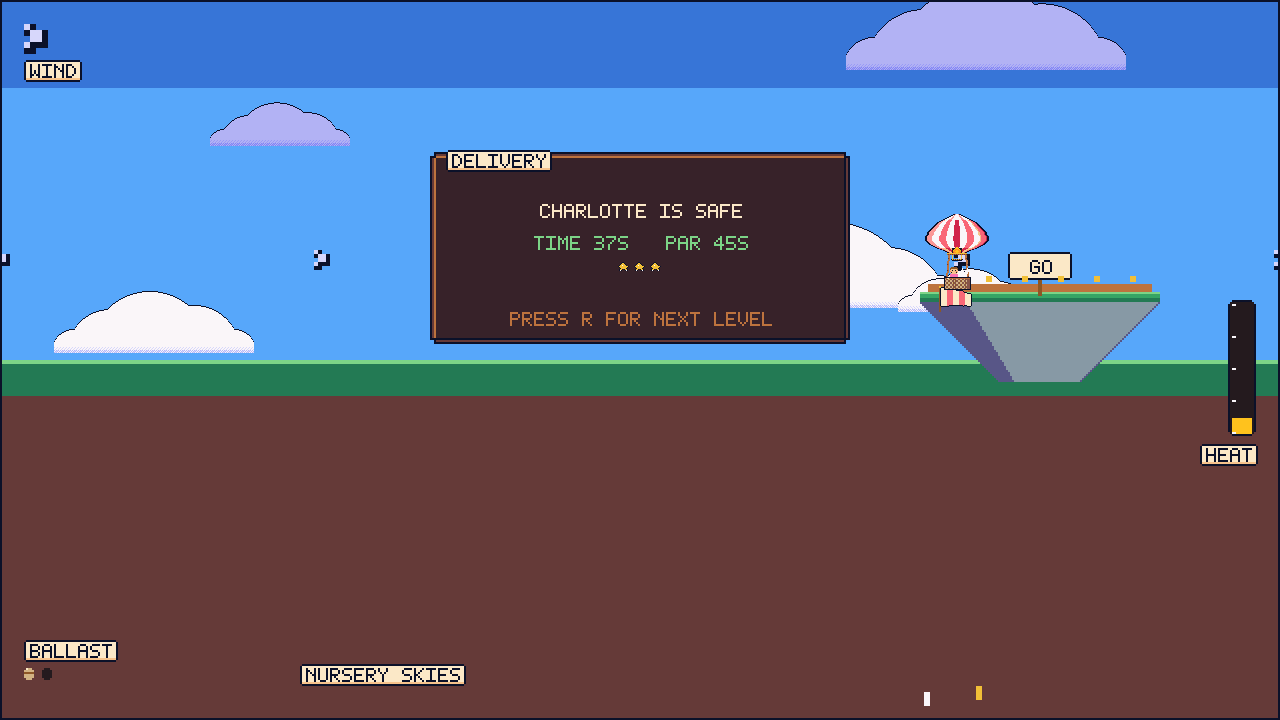
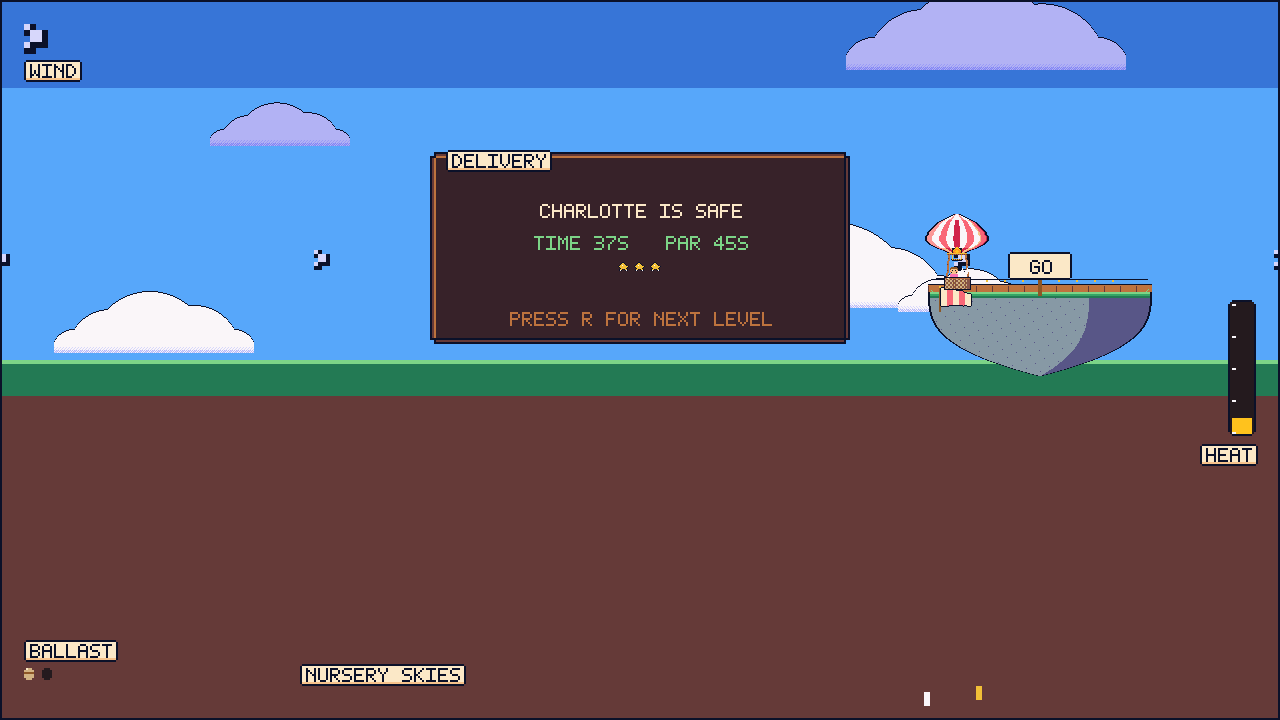
feat(art): islands, falling sandbags, and a windsock that snaps
Art plan C-batch-2 + D-batch-2, and the last piece of C the player was missing: nothing
was ever seen being dropped.

Sim: each real bag release now records (tick, x, altitude) in a ring of three slots in
SimState — physics truth, hashed, cloned, and readable through the bridge as `drops`.
The renderer derives the fall from the clock, so a deterministic replay draws the bag in
the same place on every head. New xunit proves the record contract: one per release, at
the release position, moves the hash against a run that kept flying, and nothing is
remembered when nothing was held.

Sheet: two islands (launch/delivery) with a plank deck authored to the sim's exact landing
tolerance (DeckHalfWidth ±56 px), grass cap, rock taper with sparse cracks, delivery
variant carrying its gold bunting on the sprite; windsocks 2 and 3 gained a snap frame,
picked off the clock at band strength >= 2 — which the frozen results clock stops like
everything else. WorldScreen's Kit.Island / deck fills / bunting loops are gone; one
sprite per island now.

Initiative: 8 (art, expanded plan) steps C + D, batch 2
Verified: node art/.art/audit.js ok (18 slices, all pixels on-palette); dotnet build
Release 0 warnings all heads; dotnet test 47/47 (new drop-record test); npx playwright
test 36/36 both viewports; 02-world + 03-delivery reviewed at 1280x720: bunting, plank
deck, Charlotte parked on the deck — landing contact reads, phone view unclipped

Changed region(s): [[0.7188, 0.3667, 0.9062, 0.55]]

diff --git a/art/.art/generate.js b/art/.art/generate.js
@@ -263,7 +263,7 @@ function sandbag() {
   return ring.concat(body);
 }
 
-function windsock(strength) {
+function windsock(strength, alt = false) {
   // build the sock as a region, then outline its silhouette and paint stripes — an outline drawn
   // after the stripes would eat the pattern, so the ink ring goes down first
   const cells = new Map();
@@ -272,7 +272,8 @@ function windsock(strength) {
   for (let i = 0; i < len; i++) {
     const along = i / len;
     const taper = Math.floor(along * (5 - strength));
-    const sag = Math.floor(along * along * droop);
+    // the alt frame shivers the outer third — cloth snapping in a real wind, not a new shape
+    const sag = Math.floor(along * along * droop) + (alt && along > 0.6 ? 1 : 0);
     for (let row = taper; row < 18 - taper; row++) cells.set(`${3 + i},${2 + row + sag}`, i);
   }
   const px = [];
@@ -319,6 +320,59 @@ function heart(filled) {
   ], 0, 0, { h: filled ? "heart" : "heartOff" });
 }
 
+// ================================================================ islands
+// design 120x50 -> internal 240x100, origin 4 px above the deck line so the sprite carries the
+// whole stack: bunting (delivery only), plank deck, grass cap, rock underbelly to a point.
+// Launch and delivery differ in deck wood and the bunting — same silhouette builder.
+function island(delivery) {
+  const W = 240, px = [];
+  const deckTop = 8, deckH = 8;                       // internal: 4 design px of plank at y 8..15
+  const capTop = 16, pointY = 100;                    // grass cap starts, rock tapers to here
+  const deckWood = delivery ? "w0" : "w1";
+  // bunting: gold pips on a line across the delivery deck (the prize reads at a glance)
+  if (delivery) {
+    for (let x = 30; x < W - 30; x += 18) px.push([x, 4, PAL.gold], [x + 1, 4, PAL.gold], [x, 5, PAL.gold], [x + 1, 5, PAL.gold]);
+    for (let x = 12; x < W - 12; x++) px.push([x, 3, PAL.K]); // the string, post to post
+  }
+  // deck: lit top line, plank seams every 16 px, shaded bottom edge. Width matches the sim's
+  // landing tolerance exactly: DeckHalfWidth 56 design px = 112 internal, centred.
+  for (let x = W / 2 - 112; x < W / 2 + 112; x++) {
+    px.push([x, deckTop, PAL.K], [x, deckTop + deckH + 1, PAL.K]);
+    for (let y = deckTop + 1; y <= deckTop + deckH; y++) px.push([x, y, PAL[deckWood]]);
+    if ((x - (W / 2 - 112)) % 16 === 0) for (let y = deckTop + 1; y <= deckTop + deckH; y++) px.push([x, y, PAL.w2]);
+    px.push([x, deckTop + 1, (x & 1) ? PAL.w0 : PAL[deckWood]]);
+  }
+  // grass cap + rock body: per-row half-widths, smooth taper to a point
+  const halfAt = (y) => {
+    const t = (y - capTop) / (pointY - capTop);       // 0 at cap, 1 at point
+    const w = 224 * (1 - t * t * t);                  // cap slightly wider than the deck, long taper
+    return Math.max(0, w / 2);
+  };
+  for (let y = capTop; y < pointY; y++) {
+    const half = halfAt(y);
+    const left = Math.round(W / 2 - half), right = Math.round(W / 2 + half);
+    const grass = y < capTop + 6;                     // cap depth: leaf, then moss, then rock
+    for (let x = left; x < right; x++) {
+      const edge = x - left < 2 || right - x <= 2;
+      if (edge) { px.push([x, y, PAL.K]); continue; }
+      let hex;
+      if (grass) hex = y < capTop + 2 ? PAL.grass : y < capTop + 4 ? PAL.leaf : PAL.moss;
+      else {
+        const u = (x - left) / Math.max(1, right - left - 1);
+        hex = u > 0.72 ? PAL.rockD : PAL.rock;        // sun from the left, shade right
+        if ((x * 31 + y * 17) % 97 === 0) hex = PAL.rockD; // sparse cracks
+      }
+      px.push([x, y, hex]);
+    }
+    // a couple of grass tufts lean off the cap edge
+    if (y === capTop && half > 40) {
+      px.push([left + 3, y - 2, PAL.grass], [left + 4, y - 1, PAL.grass]);
+      px.push([right - 4, y - 3, PAL.grass], [right - 5, y - 2, PAL.grass], [right - 6, y - 1, PAL.grass]);
+    }
+  }
+  return px;
+}
+
 // ================================================================ sheet packing
 // frames stack vertically inside the name's column; slices.json (the loader's table) mirrors this.
 const SPRITES = {
@@ -328,8 +382,10 @@ const SPRITES = {
   "cloud-mid":    { w: 200, h: 66, frames: [cloud(200)] },
   "cloud-large":  { w: 280, h: 92, frames: [cloud(280)] },
   "windsock-1":   { w: 56, h: 26, frames: [windsock(1)] },
-  "windsock-2":   { w: 66, h: 26, frames: [windsock(2)] },
-  "windsock-3":   { w: 76, h: 26, frames: [windsock(3)] },
+  "windsock-2":   { w: 66, h: 26, frames: [windsock(2), windsock(2, true)] },
+  "windsock-3":   { w: 76, h: 26, frames: [windsock(3), windsock(3, true)] },
+  "island-launch":    { w: 240, h: 100, frames: [island(false)] },
+  "island-delivery":  { w: 240, h: 100, frames: [island(true)] },
   "star-off":     { w: 12, h: 9, frames: [star(false)] },
   "star-on":      { w: 12, h: 9, frames: [star(true)] },
   "heart-off":    { w: 12, h: 9, frames: [heart(false)] },

diff --git a/Balloonatic/Balloonatic.Game/Screens/WorldScreen.cs b/Balloonatic/Balloonatic.Game/Screens/WorldScreen.cs
@@ -52,6 +52,7 @@ namespace Balloonatic.Screens
             DrawCloudLayer(canvas, level, state, camX, camAlt, far: false);
             DrawWindStreaks(canvas, level, state, camX, camAlt);
             DrawIslands(canvas, level, state, camX, camAlt);
+            DrawFallingBags(canvas, state, camX, camAlt);
             DrawBalloon(canvas, state, camX, camAlt);
             DrawHud(canvas, level, state);
             DrawLandingFeedback(canvas, level, state, camX, camAlt);
@@ -249,9 +250,9 @@ namespace Balloonatic.Screens
             if (x < -90 || x > Sim.DesignWidth + 90)
                 return;
 
-            // A grass-capped rock with a wooden deck: the sheet's floating islands, stand-in until I8.
-            Kit.Island(canvas, x - 60, groundY - 34, 120, 46);
-            canvas.Fill(x - SimTuning.DeckHalfWidth, groundY - 38, SimTuning.DeckHalfWidth * 2, 4, launch ? Theme.WoodMid : Theme.WoodLight);
+            // The sheet island: plank deck (exactly as wide as the sim's landing tolerance), grass
+            // cap, rock tapering to a point — delivery variant carries its own gold bunting.
+            Sprites.Draw(canvas, launch ? "island-launch" : "island-delivery", x - 60f, groundY - 42f);
 
             // A sign on the deck: what this island is for, in the paper-and-ink language of the sheet.
             // The board glides with the island; its lettering holds the coarse grid (Round) — text that
@@ -266,17 +267,42 @@ namespace Balloonatic.Screens
             // The windsock flies off the windward post of the deck — the truth about this altitude,
             // in world. The sheet sock inflates from its post downwind; a band blowing left mirrors it.
             WindBand band = level.BandAt(1f);
-            string sock = "windsock-" + band.Strength;
+            // Two frames of cloth snap, only for bands strong enough to snap cloth; the frozen
+            // results clock stops the flutter with everything else, because the world stands still.
+            string sock = band.Strength switch
+            {
+                1 => "windsock-1",
+                _ => $"windsock-{band.Strength}-{Clock(state) / 12 % 2}",
+            };
             Vector2 sockSize = Sprites.Size(sock);
             float postX = x + (band.Direction >= 0 ? -50 : 50);
             Sprites.Draw(canvas, sock, band.Direction >= 0 ? postX - 1 : postX - sockSize.X + 1,
                          groundY - 37, band.Direction < 0);
+        }
 
-            if (!launch)
+        /// <summary>
+        /// Every dropped sandbag falls where it was released: the sim recorded the release (tick,
+        /// position), and a constant visual fall rate derived from the clock draws it — the player
+        /// must see the bag leave the basket, because the bag IS the brake, and an invisible brake
+        /// teaches nothing. Gone at the ground or after a few seconds, whichever screen first.
+        /// </summary>
+        static void DrawFallingBags(DesignCanvas canvas, SimState state, float camX, float camAlt)
+        {
+            const float FallSpeed = 70f;      // design px/s, visual only — no physics pretence
+            int clock = Clock(state);
+            for (int i = 0; i < state.DropTick.Length; i++)
             {
-                // Delivery bunting across the deck: gold pips so the target reads as the prize at a glance.
-                for (int i = 0; i < 6; i++)
-                    canvas.Fill(x - 45 + i * 18, groundY - 42, 3, 3, Theme.StarGold);
+                if (state.DropsSeen <= i)
+                    continue;                 // slot never used
+                int age = clock - state.DropTick[i];
+                if (age < 0 || age > clock)   // clock is frozen on the results screen: a bag released
+                    continue;                 // before the freeze hangs on screen, as the world stops
+                float alt = state.DropAltitude[i] - FallSpeed * age / Sim.StepHz;
+                if (alt < 0f)
+                    continue;                 // it landed off-screen; the ground owns it now
+                Vector2 size = Sprites.Size("bag-falling");
+                Sprites.Draw(canvas, "bag-falling", ScreenX(state.DropX[i], camX) - size.X / 2,
+                             ScreenY(alt, camAlt) - size.Y / 2);
             }
         }
 

diff --git a/Balloonatic/Balloonatic.Core/SimState.cs b/Balloonatic/Balloonatic.Core/SimState.cs
@@ -31,6 +31,18 @@ namespace Balloonatic.Core
         /// <summary>Sandbags still aboard. Dropping one is irreversible for the level.</summary>
         public int BallastHeld = SimTuning.BagCapacity;
 
+        /// <summary>Total bags released this run (each real decrement of BallastHeld is one).</summary>
+        public int DropsSeen;
+
+        /// <summary>
+        /// Where and when each bag was released — a ring of three, because that is more bags than can
+        /// be on screen at once. The sim records the release (physics truth); the renderer derives the
+        /// fall from elapsed ticks, so nothing here depends on drawing.
+        /// </summary>
+        public readonly int[] DropTick = new int[3];
+        public readonly float[] DropX = new float[3];
+        public readonly float[] DropAltitude = new float[3];
+
         /// <summary>Downwind distance travelled from the launch column, design px. Wind owns this, not the player.</summary>
         public float X;
 
@@ -74,26 +86,37 @@ namespace Balloonatic.Core
         /// </summary>
         public string? RequestedScreen;
 
-        public SimState Clone() => new SimState
+        public SimState Clone()
         {
-            Seed = Seed,
-            Tick = Tick,
-            Temperature = Temperature,
-            VelocityY = VelocityY,
-            Altitude = Altitude,
-            BallastHeld = BallastHeld,
-            X = X,
-            VelocityX = VelocityX,
-            LevelId = LevelId,
-            Delivered = Delivered,
-            Complete = Complete,
-            Bounces = Bounces,
-            BounceTick = BounceTick,
-            Stars = Stars,
-            CompletedAtTick = CompletedAtTick,
-            Heating = Heating,
-            Screen = Screen,
-        };
+            SimState copy = new SimState
+            {
+                Seed = Seed,
+                Tick = Tick,
+                Temperature = Temperature,
+                VelocityY = VelocityY,
+                Altitude = Altitude,
+                BallastHeld = BallastHeld,
+                DropsSeen = DropsSeen,
+                X = X,
+                VelocityX = VelocityX,
+                LevelId = LevelId,
+                Delivered = Delivered,
+                Complete = Complete,
+                Bounces = Bounces,
+                BounceTick = BounceTick,
+                Stars = Stars,
+                CompletedAtTick = CompletedAtTick,
+                Heating = Heating,
+                Screen = Screen,
+            };
+            for (int i = 0; i < DropTick.Length; i++)
+            {
+                copy.DropTick[i] = DropTick[i];
+                copy.DropX[i] = DropX[i];
+                copy.DropAltitude[i] = DropAltitude[i];
+            }
+            return copy;
+        }
     }
 
     /// <summary>
@@ -154,7 +177,16 @@ namespace Balloonatic.Core
             }
 
             if (input.DropBallast && state.BallastHeld > 0)
+            {
+                // The sim records the release — a bag exists out there now. Whether it has landed is
+                // the renderer's business; the record is state, hashed, so tests can prove the drop.
+                int slot = state.DropsSeen % state.DropTick.Length;
+                state.DropTick[slot] = state.Tick;
+                state.DropX[slot] = state.X;
+                state.DropAltitude[slot] = state.Altitude;
+                state.DropsSeen++;
                 state.BallastHeld--;
+            }
 
             float lift = state.Temperature * SimTuning.LiftGain;
             float weight = SimTuning.Gravity + state.BallastHeld * SimTuning.BallastPerBag;
@@ -229,6 +261,13 @@ namespace Balloonatic.Core
             h = Mix(h, Bits(state.VelocityY));
             h = Mix(h, Bits(state.Altitude));
             h = Mix(h, (ulong)state.BallastHeld);
+            h = Mix(h, (ulong)state.DropsSeen);
+            for (int i = 0; i < state.DropTick.Length; i++)
+            {
+                h = Mix(h, (ulong)state.DropTick[i]);
+                h = Mix(h, Bits(state.DropX[i]));
+                h = Mix(h, Bits(state.DropAltitude[i]));
+            }
             h = Mix(h, Bits(state.X));
             h = Mix(h, Bits(state.VelocityX));
             h = Mix(h, state.Delivered ? 1UL : 0UL);

diff --git a/Balloonatic/Balloonatic.Tests/DeliveryTests.cs b/Balloonatic/Balloonatic.Tests/DeliveryTests.cs
@@ -240,6 +240,35 @@ namespace Balloonatic.Tests
         }
 
         [Fact]
+        public void A_dropped_bag_is_recorded_where_it_was_released_and_moves_the_hash()
+        {
+            // The renderer draws the falling bag from these records, so the records are the contract:
+            // one per real release, at the exact world position, and covered by the state hash.
+            TestHarness a = new TestHarness();
+            TestHarness b = new TestHarness();
+            a.Handle("reset", "b091");   // hex, like every seed
+            b.Handle("reset", "b091");
+
+            a.Handle("set", "ballast=1");
+            a.Handle("step", "1");
+            a.State.DropsSeen.Should().Be(1);
+            a.State.DropTick[0].Should().Be(a.State.Tick);                   // recorded the step it left
+            a.State.DropAltitude[0].Should().Be(SimTuning.DeckTopAltitude);  // released from the deck
+            a.State.BallastHeld.Should().Be(SimTuning.BagCapacity - 1);
+            a.Handle("state", "").Should().Contain("\"drops\":1");
+            b.Handle("step", "1");                                           // same tick, same sky —
+            a.Handle("hash", "").Should().NotBe(b.Handle("hash", ""));       // only the dropped bag differs
+
+            a.Handle("set", "ballast=1");
+            a.Handle("step", "30");
+            a.State.DropsSeen.Should().Be(2);                                // second bag, second record
+            a.Handle("set", "ballast=1");
+            a.Handle("step", "30");
+            a.State.DropsSeen.Should().Be(2);                                // nothing held: nothing to drop,
+            a.State.BallastHeld.Should().Be(0);                              // and nothing remembered
+        }
+
+        [Fact]
         public void The_same_playthrough_seed_grows_the_same_sky_on_every_head()
         {
             // The advance chain must be pure arithmetic: desktop and WASM grow identical skies from

diff --git a/Balloonatic/Balloonatic.Core/TestHarness.cs b/Balloonatic/Balloonatic.Core/TestHarness.cs
@@ -108,6 +108,8 @@ namespace Balloonatic.Core
                     return _state.VelocityX.ToString("0.00", CultureInfo.InvariantCulture);
                 case "ballast":
                     return _state.BallastHeld.ToString(CultureInfo.InvariantCulture);
+                case "drops":
+                    return _state.DropsSeen.ToString(CultureInfo.InvariantCulture);
                 case "level":
                     return a.Length == 0 ? _state.LevelId : SetLevel(a);
                 case "delivered":
@@ -306,6 +308,7 @@ namespace Balloonatic.Core
               .Append("\"altitude\":").Append(_state.Altitude.ToString("0.00", CultureInfo.InvariantCulture)).Append(',')
               .Append("\"velocityY\":").Append(_state.VelocityY.ToString("0.00", CultureInfo.InvariantCulture)).Append(',')
               .Append("\"ballastHeld\":").Append(_state.BallastHeld.ToString(CultureInfo.InvariantCulture)).Append(',')
+              .Append("\"drops\":").Append(_state.DropsSeen.ToString(CultureInfo.InvariantCulture)).Append(',')
               .Append("\"x\":").Append(_state.X.ToString("0.00", CultureInfo.InvariantCulture)).Append(',')
               .Append("\"velocityX\":").Append(_state.VelocityX.ToString("0.00", CultureInfo.InvariantCulture)).Append(',')
               .Append("\"level\":\"").Append(_state.LevelId).Append("\",")

diff --git a/docs/BASELINE.md b/docs/BASELINE.md
@@ -14,7 +14,7 @@ exactly the way an entry host would.
 | `dotnet build` (5 projects, Release) | ~11 s | measured |
 | `dotnet publish` Blazor WebGL head | ~11 s (no `wasm-tools`, so no AOT) | measured |
 | Playwright suite | 36 tests, 2 viewports, ~27 s | `npx playwright test` |
-| xunit suite | 46 tests | `dotnet test` |
+| xunit suite | 47 tests | `dotnet test` |
 
 Budgets to watch (set in I12, warned about now): boot under ~3 s on a normal connection, payload under
 ~8 MB transferred, 60 fps in a Chromium tab. The 17 MB on disk is mostly uncompressed framework files
@@ -55,6 +55,7 @@ pinned in one place and cannot drift between browser and unit tests.
 | `advance()` | the player's R after a delivery: next authored level (wraps after the last), fresh run on a derived seed, unpaused (`ok:<hash>`) |
 | `deliver([sec])` | the autopilot flies the run onto the delivery deck, stepping directly (`ok:delivered` / `error:not-delivered`) |
 | `delivered()`, `complete()`, `stars()`, `bounces()` | the landing rule's readouts; `state()` carries the same as `delivered`/`complete`/`stars`/`bounces`/`completedAtTick` |
+| `drops()` | sandbags released this run (`SimState.DropsSeen`), also in `state()` as `drops` — the falling-bag art draws from the release records, and the hash covers them |
 | `frames()`, `metrics()` | renderer-side counters: frame count, viewport/backbuffer/scale |
 
 Rules this enforces: only the harness advances time; `pause()` stops the game loop dead; rendering
